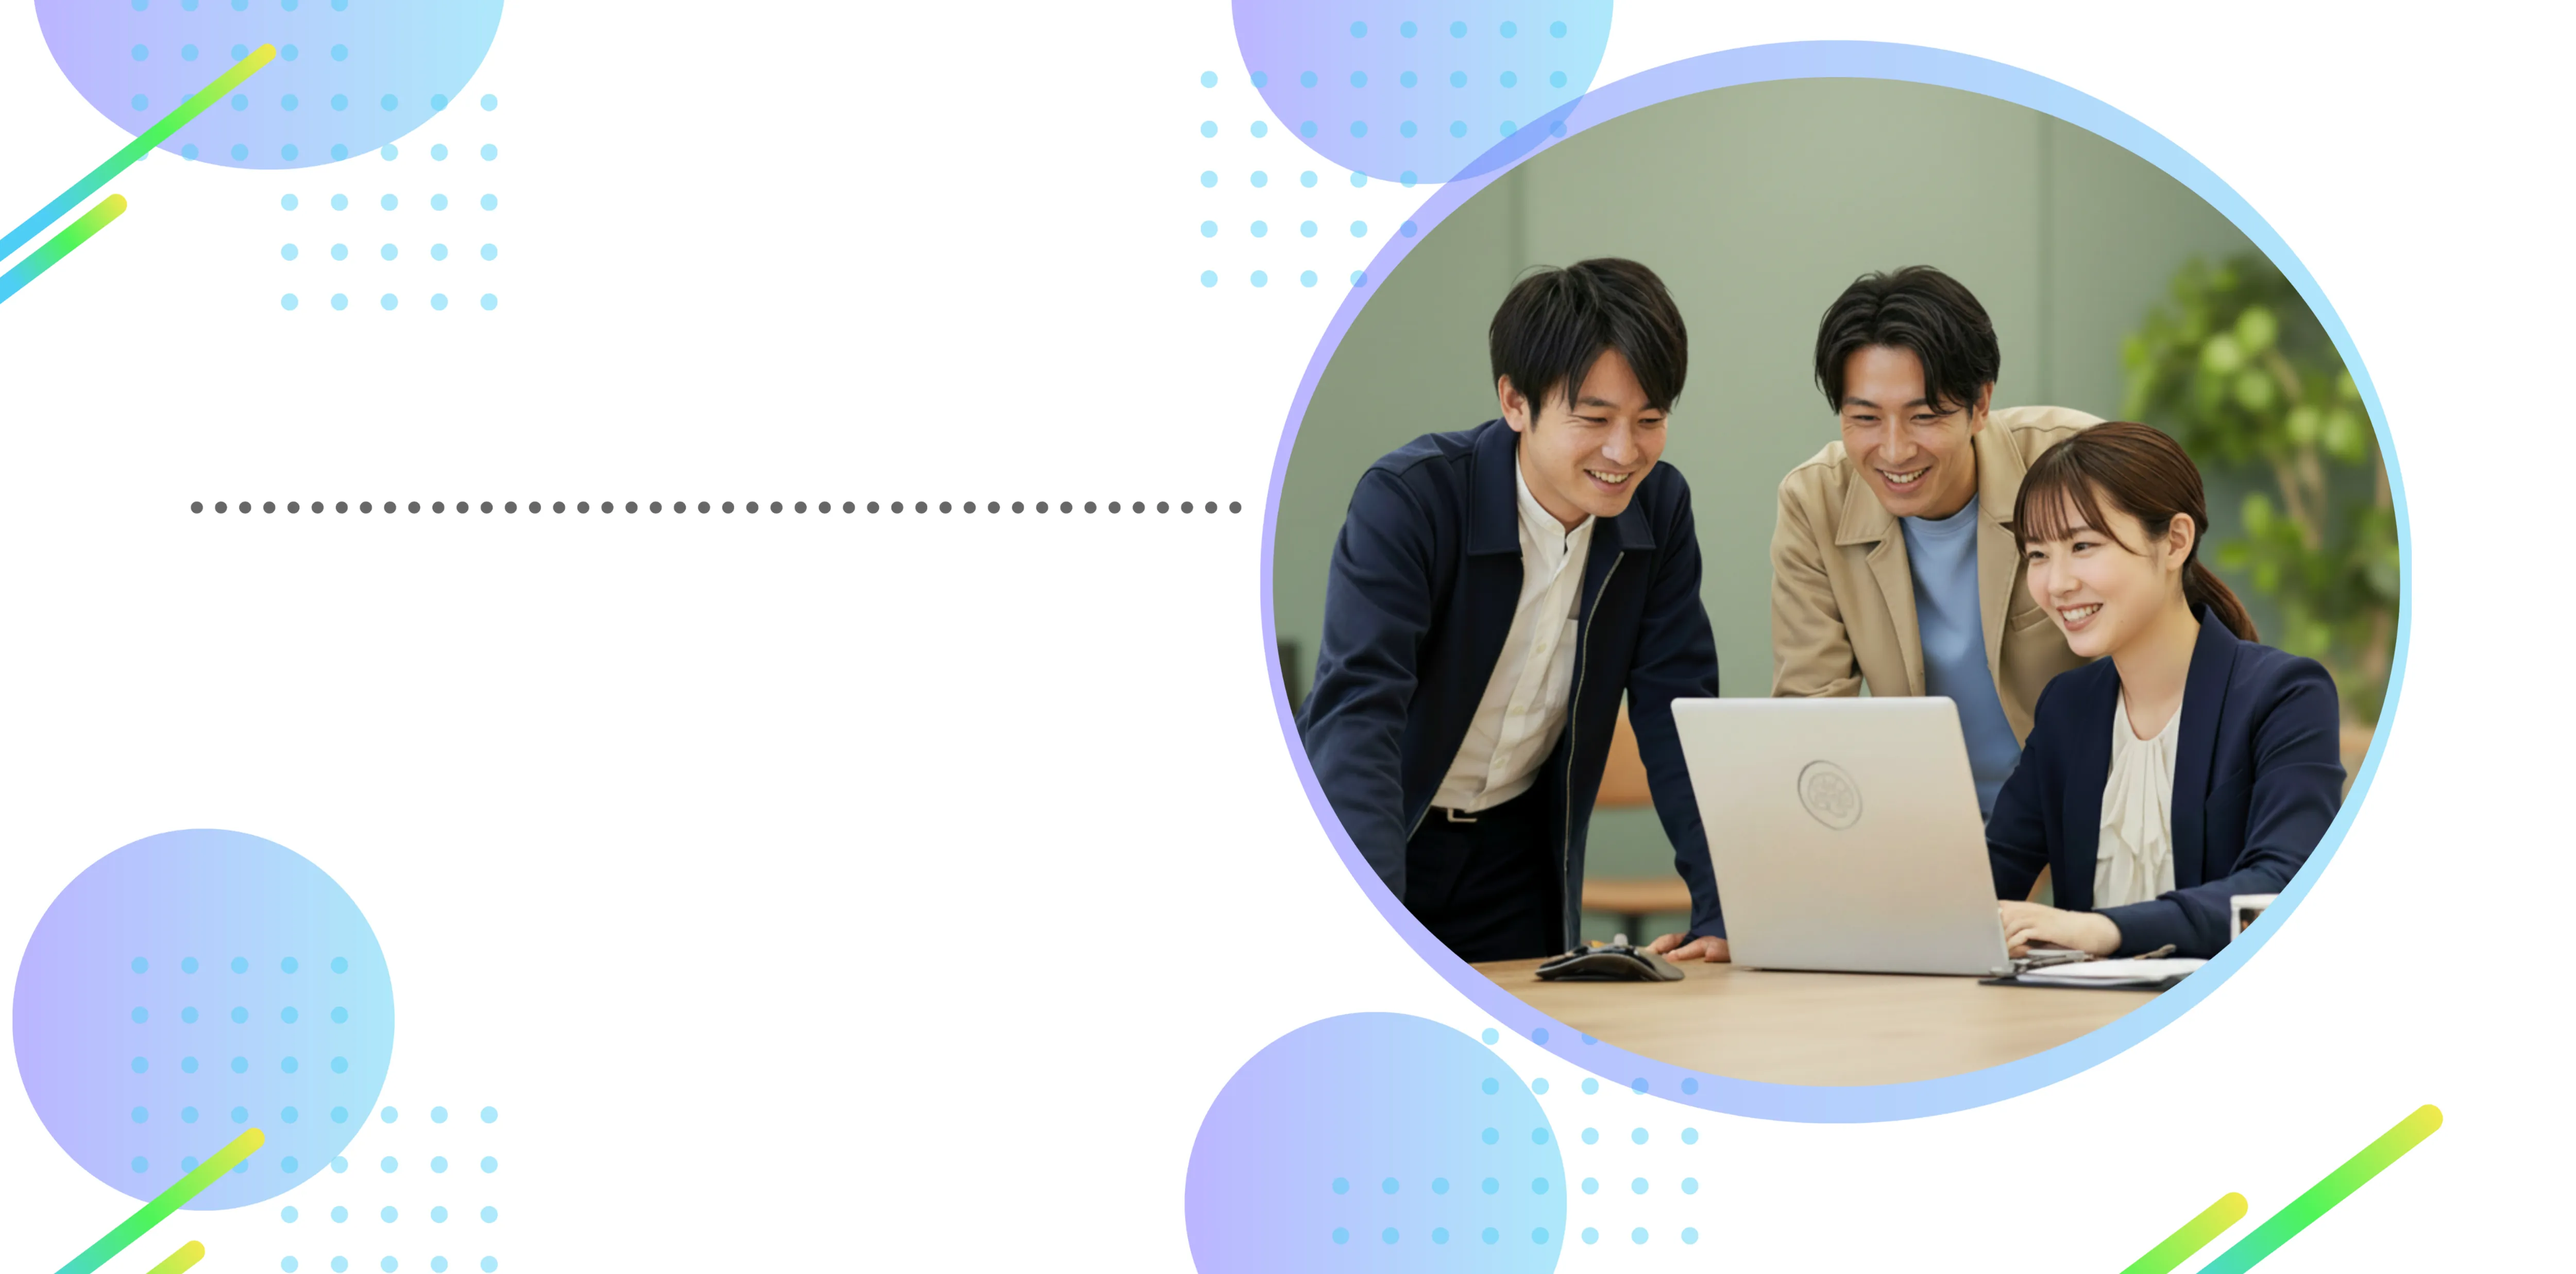
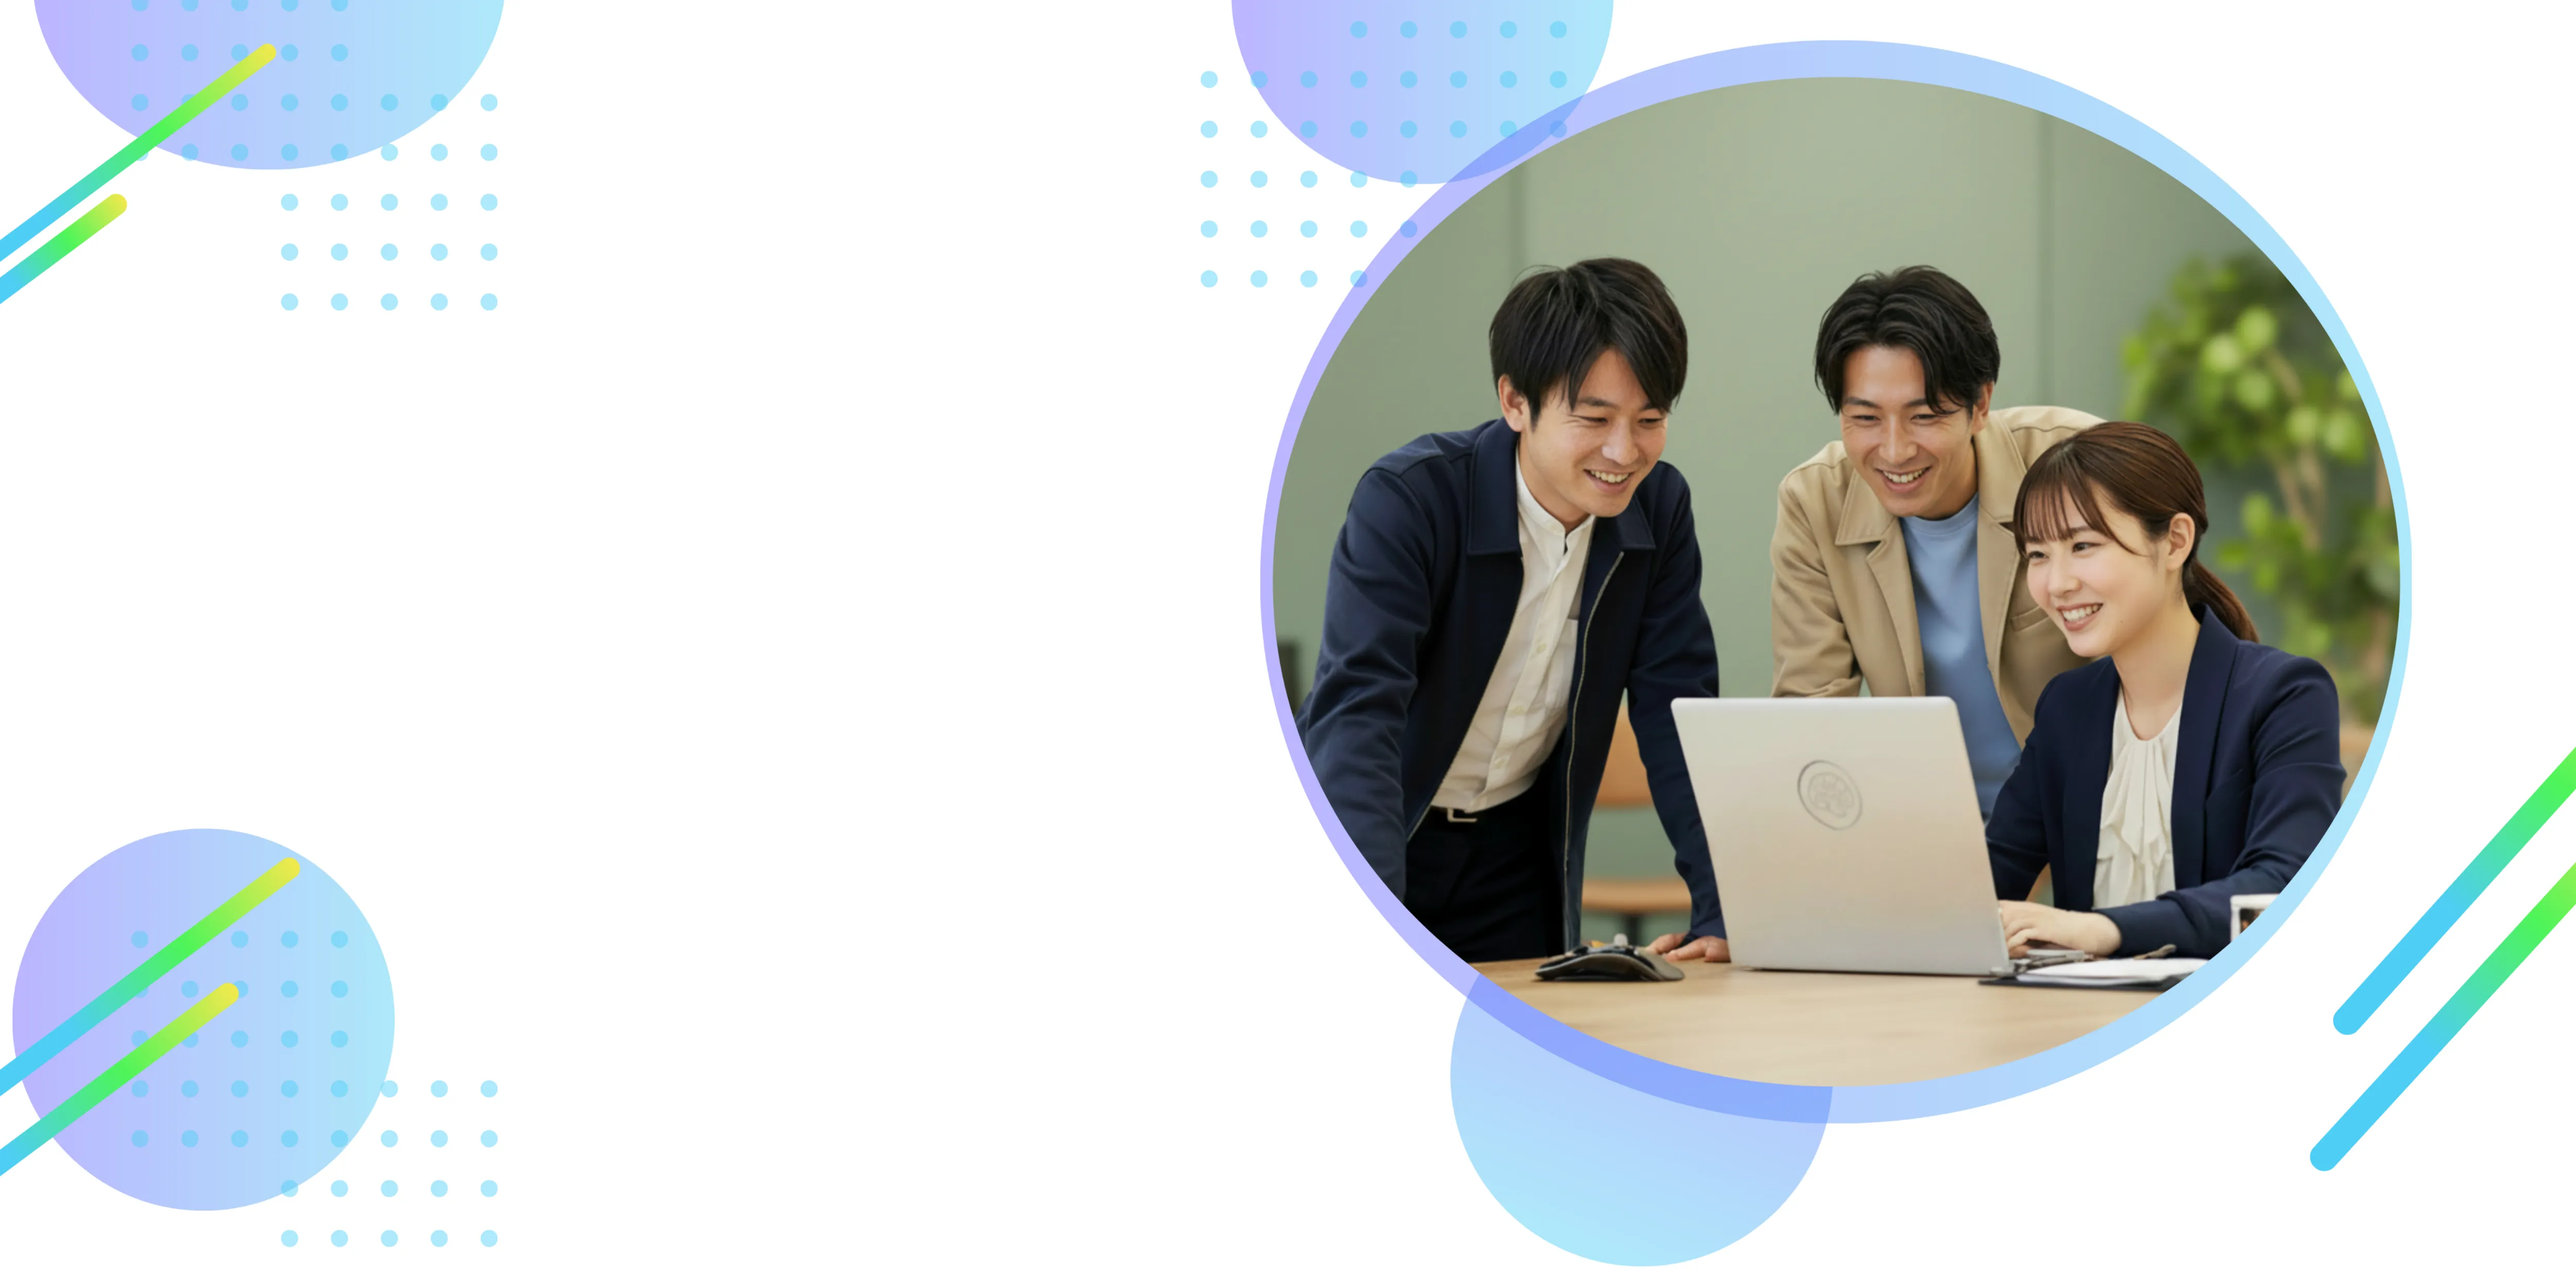
feat: Heroセクションをリデザイン、Painセクションのテキスト修正
- Hero: 背景画像ベースのレイアウトに変更（PC/スマホ対応）
- Hero: テキスト「あなた専用のAI×キャリアロードマップ プロが無料で作成」
- Hero: CTAボタン「【無料】まずは話を聞いてみる」
- Hero: レスポンシブ対応（clamp()によるフォントサイズ調整）
- Pain: タイトルに「AIの」を追加

diff --git a/components/sections/Hero.tsx b/components/sections/Hero.tsx
@@ -2,34 +2,118 @@
 
 import React from "react";
 import Image from "next/image";
+import Link from "next/link";
+import { Play } from "lucide-react";
 
 export const Hero = () => {
   const basePath = process.env.NEXT_PUBLIC_BASE_PATH || "";
 
   return (
-    <section className="relative w-full">
+    <>
       {/* PC表示用 */}
-      <div className="hidden md:block">
-        <Image
-          src={`${basePath}/images/firstview_pc.webp`}
-          alt="AI時代に、あなたの市場価値はいくら上がる？プロが算出「AIキャリア・年収診断」"
-          width={1920}
-          height={1080}
-          className="w-full h-auto"
-          priority
-        />
-      </div>
+      <section className="hidden md:block relative min-h-[50rem] h-[95vh]">
+        {/* 背景画像 */}
+        <div className="absolute inset-0 z-0">
+          <Image
+            src={`${basePath}/images/firstview_pc.webp`}
+            alt=""
+            fill
+            className="object-cover object-center"
+            priority
+          />
+        </div>
+
+        {/* コンテンツラッパー */}
+        <div className="relative z-10 h-full container mx-auto px-8 lg:px-16 flex items-center justify-start">
+          <div className="text-center mt-[5vh]" style={{ marginLeft: "-100px" }}>
+            {/* メインキャッチコピー */}
+            <h1 className="font-bold text-slate-800 leading-[1.3]" style={{ fontSize: "clamp(1.875rem, 1rem + 3vw, 3rem)" }}>
+              あなた専用の
+              <br />
+              AI×キャリアロードマップ
+              <br />
+              <span className="whitespace-nowrap">プロが無料で作成</span>
+            </h1>
+
+            {/* サブキャッチコピー */}
+            <p className="mt-4 text-slate-600 tracking-wide" style={{ fontSize: "clamp(0.875rem, 0.5rem + 1vw, 1.125rem)" }}>
+              プロのメンターがあなただけのAIキャリアロードマップを作成
+            </p>
+
+            {/* CTAボタン */}
+            <div className="mt-8">
+              <Link
+                href="/booking"
+                data-hero-cta
+                className="inline-flex flex-col items-center bg-gradient-to-b from-orange-400 to-orange-500 hover:from-orange-500 hover:to-orange-600 text-white font-bold py-4 px-10 rounded-xl shadow-lg hover:shadow-xl hover:translate-y-[2px] transition-all"
+                style={{ fontSize: "clamp(1rem, 0.5rem + 1.5vw, 1.375rem)" }}
+              >
+                <span className="flex items-center gap-2 tracking-wider">
+                  【無料】まずは話を聞いてみる
+                  <Play className="w-5 h-5 fill-current" />
+                </span>
+              </Link>
+            </div>
+
+            {/* 注記 */}
+            <p className="mt-6 text-base text-slate-500 leading-relaxed">
+              ※総額29,800円相当の豪華15大特典
+              <br />
+              【個別相談参加者限定】無料配布中
+            </p>
+          </div>
+        </div>
+      </section>
+
       {/* スマホ表示用 */}
-      <div className="md:hidden">
+      <section className="md:hidden relative">
+        {/* 背景画像 */}
         <Image
           src={`${basePath}/images/firstview_sp.webp`}
-          alt="AI時代に、あなたの市場価値はいくら上がる？プロが算出「AIキャリア・年収診断」"
+          alt=""
           width={750}
           height={1334}
           className="w-full h-auto"
           priority
         />
-      </div>
-    </section>
+
+        {/* オーバーレイコンテンツ（下半分） */}
+        <div className="absolute left-0 right-0 h-1/2 flex flex-col justify-end px-4 pb-8" style={{ bottom: "60px", marginLeft: "20px" }}>
+          <div className="text-center">
+            <h1 className="text-[6.5vw] font-bold text-slate-800 leading-[1.3]">
+              あなた専用の
+              <br />
+              AI×キャリアロードマップ
+              <br />
+              プロが無料で作成
+            </h1>
+            <p className="mt-2 text-[3.5vw] text-slate-600">
+              プロのメンターがあなただけの
+              <br />
+              AIキャリアロードマップを作成
+            </p>
+
+            {/* CTA */}
+            <div className="mt-6 flex flex-col items-center">
+              <Link
+                href="/booking"
+                data-hero-cta
+                className="w-full max-w-xs bg-gradient-to-b from-orange-400 to-orange-500 hover:from-orange-500 hover:to-orange-600 text-white font-bold py-4 px-6 rounded-xl shadow-lg transition-all flex flex-col items-center"
+              >
+                <span className="flex items-center gap-2 text-base tracking-wider">
+                  【無料】まずは話を聞いてみる
+                  <Play className="w-4 h-4 fill-current" />
+                </span>
+              </Link>
+              <p className="mt-4 text-base text-slate-500 text-center leading-relaxed">
+                ※総額29,800円相当の豪華15大特典
+                <br />
+                【個別相談参加者限定】無料配布中
+              </p>
+            </div>
+          </div>
+        </div>
+      </section>
+    </>
   );
 };

diff --git a/components/sections/Pain.tsx b/components/sections/Pain.tsx
@@ -73,7 +73,7 @@ export const Pain = () => {
               Warning
             </span>
             <h2 className="text-2xl md:text-3xl font-bold text-slate-800">
-              こんな「見えない悩み」を<br className="md:hidden" />抱えていませんか？
+              AIのこんな「見えない悩み」を<br className="md:hidden" />抱えていませんか？
             </h2>
           </div>
 
